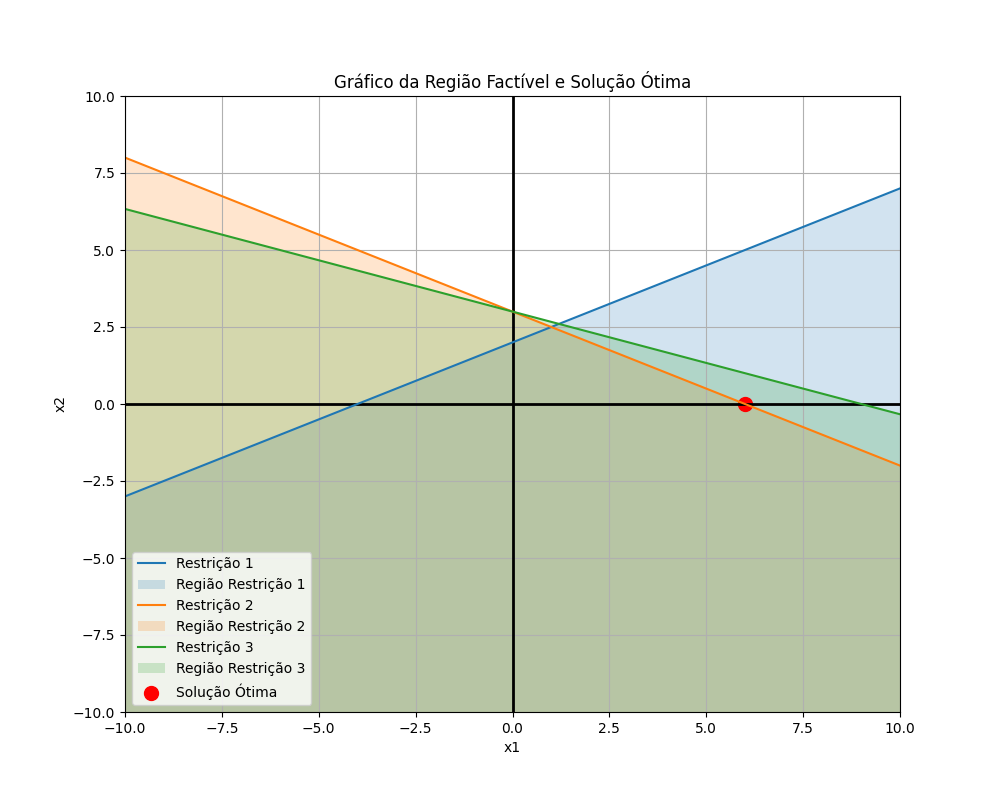
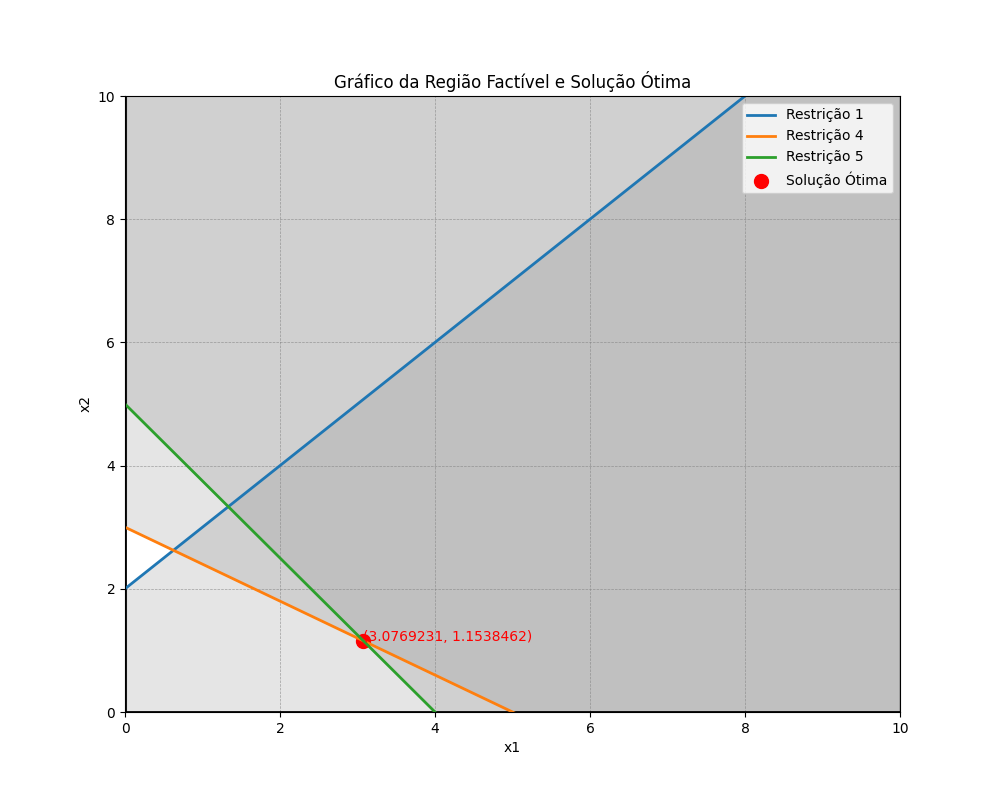
--full funcional --grafico corrigido --falta expressao simples --271224 --1146h

diff --git a/otimizacao/solver/templates/index.html b/otimizacao/solver/templates/index.html
@@ -55,15 +55,29 @@
         <textarea id="objectiveFunction" placeholder="Exemplo: 2x1 + 3x2"></textarea>
     </div>
     
-    <!-- Restrições -->
+    <!-- Restrições Técnicas -->
     <div class="section">
-        <h3>Restrições</h3>
+        <h3>Restrições Técnicas</h3>
         <div id="constraints">
             <div class="constraint">
                 <input type="text" placeholder="Exemplo: x1 + x2 <= 10" class="con-restriction">
             </div>
         </div>
         <button onclick="addConstraint()">+ Adicionar Restrição</button>
+    </div>
+
+    <!-- Restrições de Não Negatividade -->
+    <div class="section">
+        <h3>Restrições de Não Negatividade</h3>
+        <label>
+            x1 ≥ 0:
+            <input type="checkbox" id="nonNegativityX1" checked>
+        </label>
+        <br>
+        <label>
+            x2 ≥ 0:
+            <input type="checkbox" id="nonNegativityX2" checked>
+        </label>
     </div>
     
     <!-- Botão para Resolver -->
@@ -92,9 +106,6 @@
     {% csrf_token %}
     
     <script>
-        /**
-         * Adiciona uma nova restrição ao formulário.
-         */
         function addConstraint() {
             const div = document.createElement('div');
             div.className = 'constraint';
@@ -105,16 +116,10 @@
             document.getElementById('constraints').appendChild(div);
         }
 
-        /**
-         * Remove uma restrição específica do formulário.
-         */
         function removeConstraint(button) {
             button.parentElement.remove();
         }
 
-        /**
-         * Obtém o CSRF Token dos cookies.
-         */
         function getCSRFToken() {
             const cookies = document.cookie.split(';');
             for (let i = 0; i < cookies.length; i++) {
@@ -126,19 +131,6 @@
             return null;
         }
 
-        /**
-         * Oculta o gráfico quando há alterações nos campos.
-         */
-        function hideGraph() {
-            document.getElementById('graphSection').style.display = 'none';
-        }
-
-        document.getElementById('objectiveFunction').addEventListener('input', hideGraph);
-        document.querySelectorAll('.con-restriction').forEach(el => el.addEventListener('input', hideGraph));
-
-        /**
-         * Envia os dados para o backend e exibe os resultados.
-         */
         async function fetchResults() {
             const objective = document.getElementById('objectiveType').value;
             const objectiveFunction = document.getElementById('objectiveFunction').value;
@@ -146,19 +138,20 @@
             const constraints = Array.from(document.querySelectorAll('.con-restriction'))
                 .map(el => el.value);
 
+            const nonNegativity = {
+                x1: document.getElementById('nonNegativityX1').checked,
+                x2: document.getElementById('nonNegativityX2').checked
+            };
+
             const data = {
                 objective,
                 objectiveFunction,
-                constraints
+                constraints,
+                nonNegativity
             };
         
             try {
                 const csrfToken = getCSRFToken();
-                if (!csrfToken) {
-                    alert('CSRF Token não encontrado! Certifique-se de que os cookies estão habilitados.');
-                    return;
-                }
-            
                 const response = await fetch('/solver/optimize/', {
                     method: 'POST',
                     headers: {
@@ -168,33 +161,25 @@
                     body: JSON.stringify(data)
                 });
             
-                if (!response.ok) {
-                    const errorData = await response.json();
-                    alert(`Erro: ${errorData.error}`);
-                    return;
-                }
-            
                 const result = await response.json();
             
-                // Atualiza resultados
                 document.getElementById('result').innerHTML = `
                     <strong>Ponto Ótimo:</strong> ${result['Ponto Ótimo']}<br>
                     <strong>Resultado Objetivo:</strong> ${result['Resultado Objetivo']}
                 `;
             
-                // Atualiza pontos das restrições
                 document.getElementById('restrictionPoints').innerHTML = result['Pontos Restrição']
                     .map(r => `${r['Restrição']}: (${r['Pontos'][0][0]}, ${r['Pontos'][0][1]}) → (${r['Pontos'][1][0]}, ${r['Pontos'][1][1]})`)
                     .join('<br>');
             
-                // Atualiza gráfico
                 document.getElementById('graph-image').src = result['graph_path'] + '?t=' + new Date().getTime();
                 document.getElementById('graphSection').style.display = 'block';
             } catch (error) {
-                console.error('Erro ao processar a solicitação:', error);
-                alert('Erro inesperado. Verifique o console para mais detalhes.');
+                console.error('Erro:', error);
+                alert('Erro inesperado.');
             }
         }
     </script>
 </body>
 </html>
+<!-- ############### Controle de Versão: FUNCIONAL #1 ############### -->

diff --git a/otimizacao/solver/views.py b/otimizacao/solver/views.py
@@ -2,34 +2,39 @@ import matplotlib
 matplotlib.use('Agg')  # Backend adequado para renderizar gráficos em servidores
 
 from django.shortcuts import render
-from django.http import JsonResponse, FileResponse
-from pulp import LpProblem, LpVariable, LpMaximize, LpMinimize, lpSum
-import matplotlib.pyplot as plt
+from django.http import JsonResponse
+from pulp import LpProblem, LpVariable, LpMaximize, LpMinimize, lpSum, value
 import os
 import json
 import re
-from django.middleware.csrf import get_token
-from pulp import value
 import numpy as np
-import sympy as sp
+import matplotlib.pyplot as plt
 
+############### Controle de Versão: FINAL #1 ###############
 
-# View para renderizar a página inicial
+# View inicial
 def index(request):
-    csrf_token = get_token(request)
-    return render(request, 'index.html', {'csrf_token': csrf_token})
+    return render(request, 'index.html')
+
+# View para geração de gráficos
+def graph(request):
+    filepath = 'solver/static/graph.png'
+    if os.path.exists(filepath):
+        return FileResponse(open(filepath, 'rb'), content_type='image/png')
+    else:
+        return JsonResponse({'error': 'Gráfico não encontrado. Gere um gráfico primeiro.'}, status=404)
 
 
-# Função auxiliar para parsear expressões
+# Função para parsear expressões matemáticas
 def parse_expression(expression, variables):
     try:
         terms = re.findall(r'([+-]?\s*\d*\.*\d*)\s*([a-zA-Z_][a-zA-Z0-9_]*)', expression)
         parsed_terms = []
         for coef, var in terms:
             coef = coef.replace(' ', '')  # Remove espaços
-            if coef in ('', '+'):  # Coeficiente implícito positivo
+            if coef in ('', '+'):
                 coef = 1
-            elif coef == '-':  # Coeficiente implícito negativo
+            elif coef == '-':
                 coef = -1
             else:
                 coef = float(coef)
@@ -43,57 +48,32 @@ def parse_expression(expression, variables):
         raise ValueError(f"Erro ao analisar a expressão: {expression}. Detalhes: {str(e)}")
 
 
-# Função para calcular pontos de interseção entre duas restrições
-def calculate_intersection(lhs1, rhs1, lhs2, rhs2):
-    try:
-        x1, x2 = sp.symbols('x1 x2')
-        eq1 = sp.parse_expr(lhs1, local_dict={'x1': x1, 'x2': x2}) - rhs1
-        eq2 = sp.parse_expr(lhs2, local_dict={'x1': x1, 'x2': x2}) - rhs2
-        solution = sp.solve((eq1, eq2), (x1, x2))
-        return (float(solution[x1]), float(solution[x2]))
-    except Exception as e:
-        print(f"Erro ao calcular interseção: {e}")
-        return None
-
-
-# Função para encontrar pontos de uma reta
-def find_line_points(lhs, rhs):
+# Função para calcular dois pontos de uma reta
+def find_line_points(lhs: str, rhs: float):
     """
     Encontra dois pontos para uma restrição:
     - Ponto A (0, ?)
     - Ponto B (?, 0)
     """
     try:
-        # Garantir que a expressão está formatada corretamente
         lhs = lhs.replace(' ', '').replace('--', '+').replace('+-', '-')
+        x1_coef = re.search(r'([+-]?\d*)x1', lhs)
+        x2_coef = re.search(r'([+-]?\d*)x2', lhs)
 
-        # Coeficientes para x1 e x2
-        coef_x1 = 0
-        coef_x2 = 0
-        terms = re.findall(r'([+-]?\d*\.?\d*)\*?(x1|x2)', lhs)
+        x1_coef = float(x1_coef.group(1)) if x1_coef and x1_coef.group(1) not in ('', '+', '-') else (-1 if x1_coef and x1_coef.group(1) == '-' else 1)
+        x2_coef = float(x2_coef.group(1)) if x2_coef and x2_coef.group(1) not in ('', '+', '-') else (-1 if x2_coef and x2_coef.group(1) == '-' else 1)
 
-        for coef, var in terms:
-            coef = float(coef) if coef not in ('', '+', '-') else float(coef + '1')
-            if var == 'x1':
-                coef_x1 = coef
-            elif var == 'x2':
-                coef_x2 = coef
+        # Calcular pontos A (0, y) e B (x, 0)
+        y_intercept = rhs / x2_coef if x2_coef != 0 else 0
+        x_intercept = rhs / x1_coef if x1_coef != 0 else 0
 
-        # Resolver para x2 quando x1 = 0
-        y_value = rhs / coef_x2 if coef_x2 != 0 else 0
-
-        # Resolver para x1 quando x2 = 0
-        x_value = rhs / coef_x1 if coef_x1 != 0 else 0
-
-        return (0, y_value), (x_value, 0)
-    except ZeroDivisionError:
-        print("Erro: Divisão por zero ao calcular os pontos da reta.")
-        return (0, 0), (0, 0)
+        return (0, y_intercept), (x_intercept, 0)
     except Exception as e:
         print(f"Erro ao calcular pontos da restrição: {e}")
         return (0, 0), (0, 0)
 
-# Função principal de otimização (MATPLOTLIB)
+
+# Função principal de otimização
 def optimize(request):
     if request.method == 'POST':
         try:
@@ -102,6 +82,7 @@ def optimize(request):
             objective = data['objective']
             objectiveFunction = data['objectiveFunction']
             constraints = data['constraints']
+            non_negativity = data.get('nonNegativity', {'x1': True, 'x2': True})
 
             # Criar modelo de otimização
             sense = LpMaximize if objective == 'maximize' else LpMinimize
@@ -139,6 +120,12 @@ def optimize(request):
                         'Pontos': [A, B]
                     })
 
+            # Adicionar restrições de não negatividade
+            if non_negativity.get('x1', True):
+                model += variables['x1'] >= 0
+            if non_negativity.get('x2', True):
+                model += variables['x2'] >= 0
+
             # Resolver o modelo
             model.solve()
             optimal_point = [v.varValue for v in model.variables()]
@@ -152,52 +139,73 @@ def optimize(request):
             plt.ylabel('x2')
             plt.title('Gráfico da Região Factível e Solução Ótima')
 
-            # Desenhar eixos principais em preto e mais grossos
+            # Desenhar eixos principais
             plt.axhline(0, color='black', linewidth=2)  # Eixo X
             plt.axvline(0, color='black', linewidth=2)  # Eixo Y
 
             # Intervalo amplo para melhor visualização
-            x_range = np.linspace(-10, 10, 400)
+            x_range = np.linspace(-1, 10, 400)
 
             for i, (lhs, operator, rhs) in enumerate(constraint_lines):
                 try:
                     # Processar a expressão para obter coeficientes
                     lhs = lhs.replace(' ', '').replace('--', '+').replace('+-', '-')
+                    lhs = re.sub(r'(?<![\d.])x', '1x', lhs)  # Substitui 'x' por '1x' se não houver número antes
+                    lhs = re.sub(r'(?<![\d.])-x', '-1x', lhs)  # Substitui '-x' por '-1x' se não houver número antes
+                    lhs = re.sub(r'(?<![\d.])\+x', '+1x', lhs)  # Substitui '+x' por '+1x' se não houver número antes
+                    
                     coef_match = re.match(r'([+-]?\d*\.?\d*)x1([+-]?\d*\.?\d*)x2', lhs)
                     
                     if coef_match:
-                        coef_x1 = coef_match.group(1)
-                        coef_x2 = coef_match.group(2)
-
-                        # Ajustar coeficientes para valores padrão se estiverem vazios
-                        coef_x1 = float(coef_x1) if coef_x1 and coef_x1 != '-' else -1 if coef_x1 == '-' else 1
-                        coef_x2 = float(coef_x2) if coef_x2 and coef_x2 != '-' else -1 if coef_x2 == '-' else 1
+                        coef_x1 = float(coef_match.group(1)) if coef_match.group(1) else 1
+                        coef_x2 = float(coef_match.group(2)) if coef_match.group(2) else 1
 
                         # Calcular valores de y para toda a extensão do eixo x
                         y_range = (rhs - coef_x1 * x_range) / coef_x2
 
                         # Desenhar a reta
-                        plt.plot(x_range, y_range, label=f'Restrição {i + 1}')
+                        plt.plot(x_range, y_range, label=f'Restrição {i + 1}', linewidth=2)
 
-                        # Preencher a região factível
+                        # Preencher a região factível apenas em regiões positivas
                         if operator == '<=':
-                            plt.fill_between(x_range, y_range, -100, alpha=0.2, label=f'Região Restrição {i + 1}')
+                            plt.fill_between(
+                                x_range,
+                                y_range,
+                                -100,
+                                alpha=0.2,
+                                color='gray',
+                                where=(x_range >= 0) if non_negativity['x1'] else True
+                            )
                         elif operator == '>=':
-                            plt.fill_between(x_range, y_range, 100, alpha=0.2, label=f'Região Restrição {i + 1}')
+                            plt.fill_between(
+                                x_range,
+                                y_range,
+                                100,
+                                alpha=0.2,
+                                color='gray',
+                                where=(x_range >= 0) if non_negativity['x1'] else True
+                            )
 
                 except ZeroDivisionError:
                     print(f"Erro: Divisão por zero ao desenhar restrição {i + 1}")
                 except Exception as e:
                     print(f"Erro ao desenhar restrição {i + 1}: {e}")
 
-            # Adicionar ponto ótimo ao gráfico
+            # Adicionar ponto ótimo ao gráfico com anotação
             plt.scatter(optimal_point[0], optimal_point[1], color='red', s=100, label='Solução Ótima')
+            plt.text(optimal_point[0], optimal_point[1], f'({optimal_point[0]}, {optimal_point[1]})', fontsize=10, color='red')
 
-            # Ajustar limites do gráfico
-            plt.xlim(-10, 10)
-            plt.ylim(-10, 10)
+            # Ajustar limites positivos
+            plt.xlim(0 if non_negativity['x1'] else -1, 10)
+            plt.ylim(0 if non_negativity['x2'] else -1, 10)
+
+            # Adicionar grid
+            plt.grid(color='gray', linestyle='--', linewidth=0.5, alpha=0.7)
+
+            # Adicionar legenda
             plt.legend()
-            plt.grid(True)
+
+            # Salvar gráfico
             plt.savefig(filepath)
             plt.close()
 
@@ -215,12 +223,3 @@ def optimize(request):
         except Exception as e:
             print(f"Erro inesperado: {e}")
             return JsonResponse({'error': f"Erro inesperado: {str(e)}"}, status=500)
-
-
-# View para geração de gráficos
-def graph(request):
-    filepath = 'solver/static/graph.png'
-    if os.path.exists(filepath):
-        return FileResponse(open(filepath, 'rb'), content_type='image/png')
-    else:
-        return JsonResponse({'error': 'Gráfico não encontrado. Gere um gráfico primeiro.'}, status=404)
